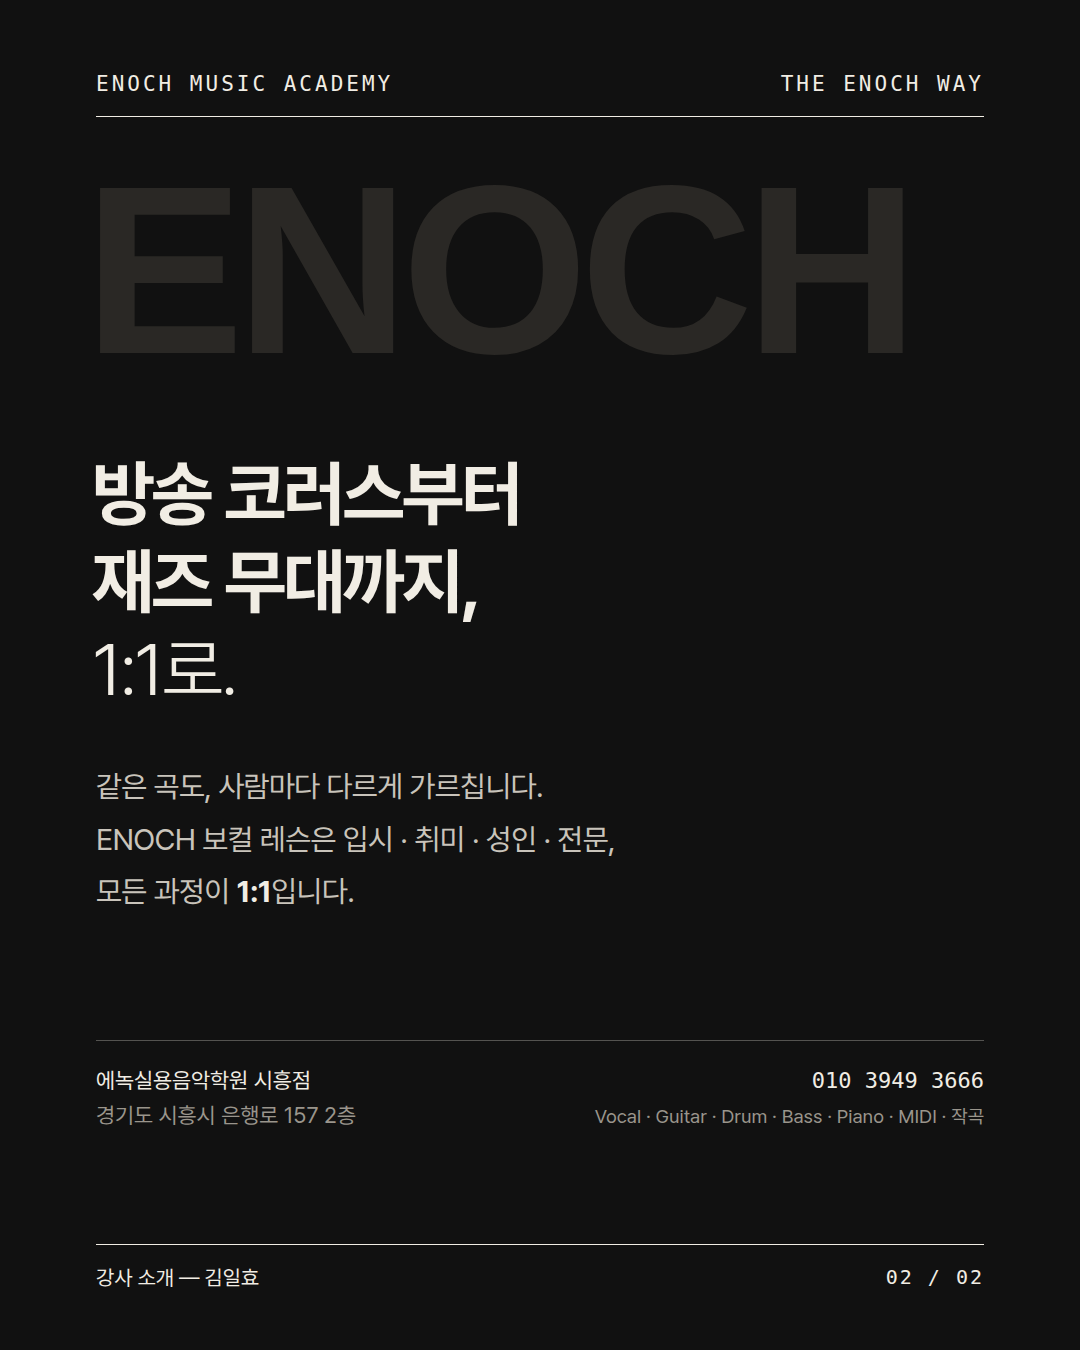
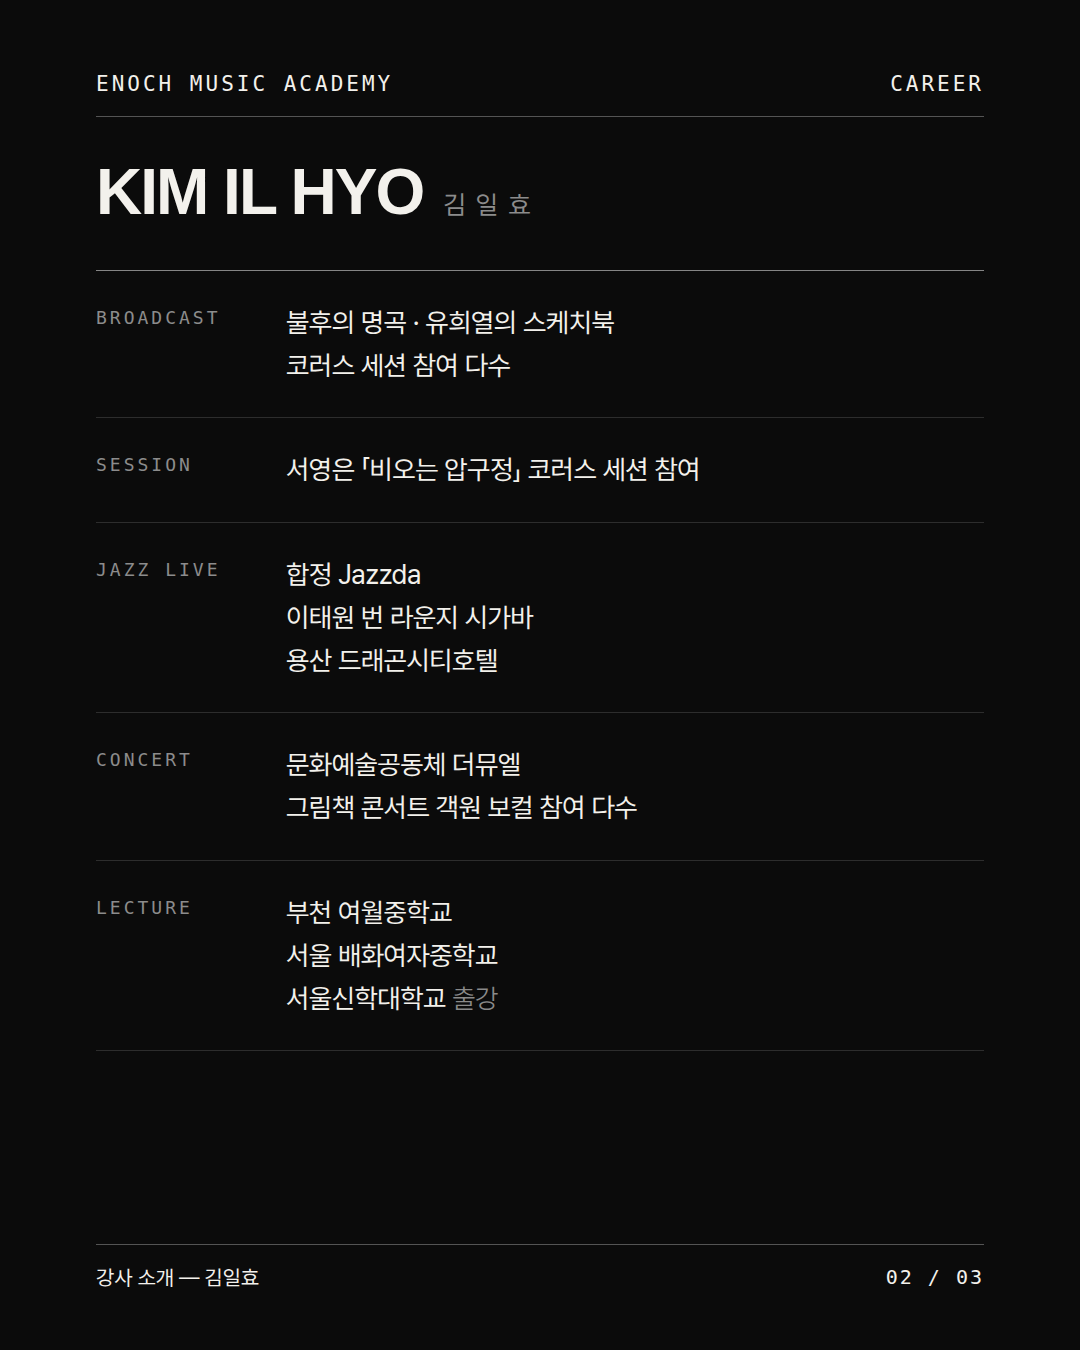
김일효: 이력 전체 반영 (스토리, 피드 약력 장 추가)
Claude-Session: https://claude.ai/code/session_01HGbZvgMeYrbU7mY8bwfjyb

diff --git a/output/강사소개_김일효/feed_black.html b/output/강사소개_김일효/feed_black.html
@@ -69,11 +69,22 @@
   <div class="ko g">김일효</div>
   <div class="cv">불후의 명곡 · 유희열의 스케치북<br>코러스 세션 다수<br>서영은 「비오는 압구정」 코러스<br>재즈 라이브 — 합정 Jazzda · 용산 드래곤시티호텔</div>
   <div class="bt"><span><span class="lime">●</span>&nbsp; Vocal</span><span class="g">1:1 Lesson</span><span class="g">나만의 진짜 소리를 찾는 곳</span></div>
+</section><section class="s bl" id="r2">
+  <div class="hd"><span>ENOCH MUSIC ACADEMY</span><span>CAREER</span></div>
+  <div class="nm">KIM IL HYO<small>김일효</small></div>
+  <div class="tbl">
+    <div class="sec"><span class="k">Broadcast</span><ul><li>불후의 명곡 · 유희열의 스케치북<br>코러스 세션 참여 다수</li></ul></div>
+    <div class="sec"><span class="k">Session</span><ul><li>서영은 「비오는 압구정」 코러스 세션 참여</li></ul></div>
+    <div class="sec"><span class="k">Jazz Live</span><ul><li>합정 Jazzda</li><li>이태원 번 라운지 시가바</li><li>용산 드래곤시티호텔</li></ul></div>
+    <div class="sec"><span class="k">Concert</span><ul><li>문화예술공동체 더뮤엘<br>그림책 콘서트 객원 보컬 참여 다수</li></ul></div>
+    <div class="sec"><span class="k">Lecture</span><ul><li>부천 여월중학교</li><li>서울 배화여자중학교</li><li>서울신학대학교 <i>출강</i></li></ul></div>
+  </div>
+  <div class="ft"><span>강사 소개 — 김일효</span><span>02 / 03</span></div>
 </section><section class="s dark" id="r4">
   <div class="hd"><span>ENOCH MUSIC ACADEMY</span><span>THE ENOCH WAY</span></div>
   <div class="ghost">ENOCH</div>
   <div class="h">방송 코러스부터<br>재즈 무대까지,<br><em>1:1로.</em></div>
   <div class="p">같은 곡도, 사람마다 다르게 가르칩니다.<br>ENOCH 보컬 레슨은 입시 · 취미 · 성인 · 전문,<br>모든 과정이 <b>1:1</b>입니다.</div>
   <div class="info"><span>에녹실용음악학원 시흥점<br><span style="color:#9A958C">경기도 시흥시 은행로 157 2층</span></span><span style="text-align:right;font-family:var(--mono)">010 3949 3666<br><span style="color:#9A958C;font-family:P,sans-serif;font-size:19px">Vocal · Guitar · Drum · Bass · Piano · MIDI · 작곡</span></span></div>
-  <div class="ft"><span>강사 소개 — 김일효</span><span>02 / 02</span></div>
+  <div class="ft"><span>강사 소개 — 김일효</span><span>03 / 03</span></div>
 </section></body></html>

diff --git a/output/강사소개_김일효/story.html b/output/강사소개_김일효/story.html
@@ -18,7 +18,8 @@
 #R .ko{position:absolute;left:82px;top:1490px;font-size:34px;font-weight:400;letter-spacing:12px}
 #R .cv{position:absolute;right:80px;top:1262px;text-align:right;font-size:22px;line-height:1.72;font-weight:400}
 #R .cv .lab{display:block;margin-bottom:10px;font-size:18px}
-#R .bt{position:absolute;left:80px;right:80px;top:1600px;padding-top:22px;display:flex;justify-content:space-between;font-size:24px;font-weight:500;border-top:1px solid rgba(255,255,255,.22)}
+#R .cv .it{display:block;margin-bottom:14px;font-size:21px;line-height:1.55}
+#R .bt{position:absolute;left:80px;right:80px;top:1720px;padding-top:22px;display:flex;justify-content:space-between;font-size:24px;font-weight:500;border-top:1px solid rgba(255,255,255,.22)}
 /* 상세 약력 */
 .dt .top{position:absolute;left:80px;right:80px;top:230px;display:flex;justify-content:space-between;padding-bottom:22px;border-bottom:1px solid rgba(255,255,255,.22)}
 .dt .nm{position:absolute;left:80px;top:310px;font-size:64px;font-weight:700;letter-spacing:-1.5px;line-height:1}
@@ -40,6 +41,6 @@
   <div class="ph"></div>
   <div class="en">KIM<br>IL HYO</div>
   <div class="ko g">김일효</div>
-  <div class="cv"><span class="lab g">CAREER</span>불후의 명곡 · 유희열의 스케치북<br>코러스 세션 다수<br>서영은 「비오는 압구정」 코러스<br>재즈 라이브 — 합정 Jazzda · 용산 드래곤시티호텔</div>
+  <div class="cv"><span class="lab g">CAREER</span><span class="it">불후의 명곡 · 유희열의 스케치북<br>코러스 세션 참여 다수</span><span class="it">서영은 「비오는 압구정」 코러스 세션</span><span class="it">재즈 라이브 — 합정 Jazzda<br>이태원 번 라운지 시가바 · 용산 드래곤시티호텔</span><span class="it">문화예술공동체 더뮤엘<br>그림책 콘서트 객원 보컬 참여 다수</span><span class="it">출강 — 부천 여월중학교 · 서울 배화여자중학교<br>서울신학대학교</span></div>
   <div class="bt"><span><span class="lime">●</span>&nbsp; Vocal</span><span class="g">1:1 Lesson</span><span class="g">나만의 진짜 소리를 찾는 곳</span></div>
 </section></body></html>

diff --git a/output/강사소개_김일효/caption.md b/output/강사소개_김일효/caption.md
@@ -3,7 +3,7 @@
 ## 본문
 ENOCH TEACHERS. 보컬, 김일효 선생님.
 
-불후의 명곡, 유희열의 스케치북 코러스 세션에 여러 차례 참여했고, 서영은 「비오는 압구정」 코러스에도 함께했습니다. 합정 Jazzda, 이태원 번 라운지, 용산 드래곤시티호텔에서 재즈 라이브 무대에 올라요. 방송 코러스부터 재즈 무대까지 다듬어 온 노래를, ENOCH에서는 1:1로 나눕니다.
+불후의 명곡, 유희열의 스케치북 코러스 세션에 여러 차례 참여했고, 서영은 「비오는 압구정」 코러스에도 함께했습니다. 합정 Jazzda, 이태원 번 라운지, 용산 드래곤시티호텔에서 재즈 라이브 무대에 올라요. 문화예술공동체 더뮤엘 그림책 콘서트의 객원 보컬로, 중학교와 대학교 출강으로도 노래를 나눠 왔습니다. 방송 코러스부터 재즈 무대까지 다듬어 온 노래를, ENOCH에서는 1:1로 나눕니다.
 
 같은 곡도, 사람마다 다르게 가르칩니다. ENOCH 보컬 레슨은 입시 · 취미 · 성인 · 전문, 모든 과정이 1:1입니다.
 
